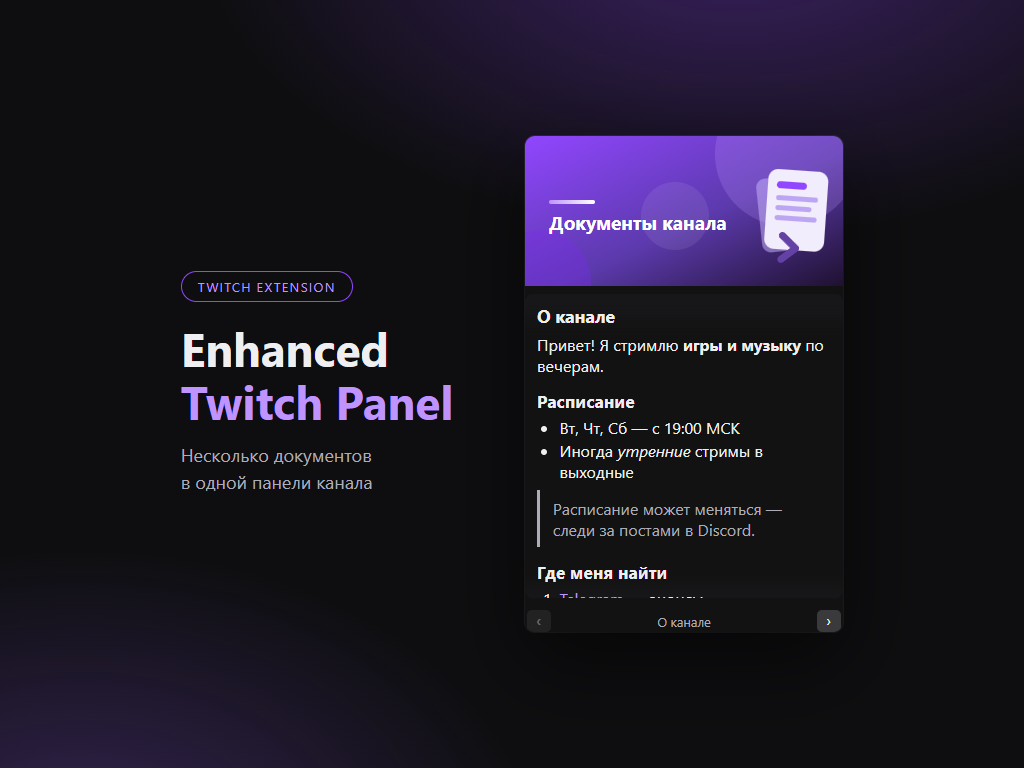
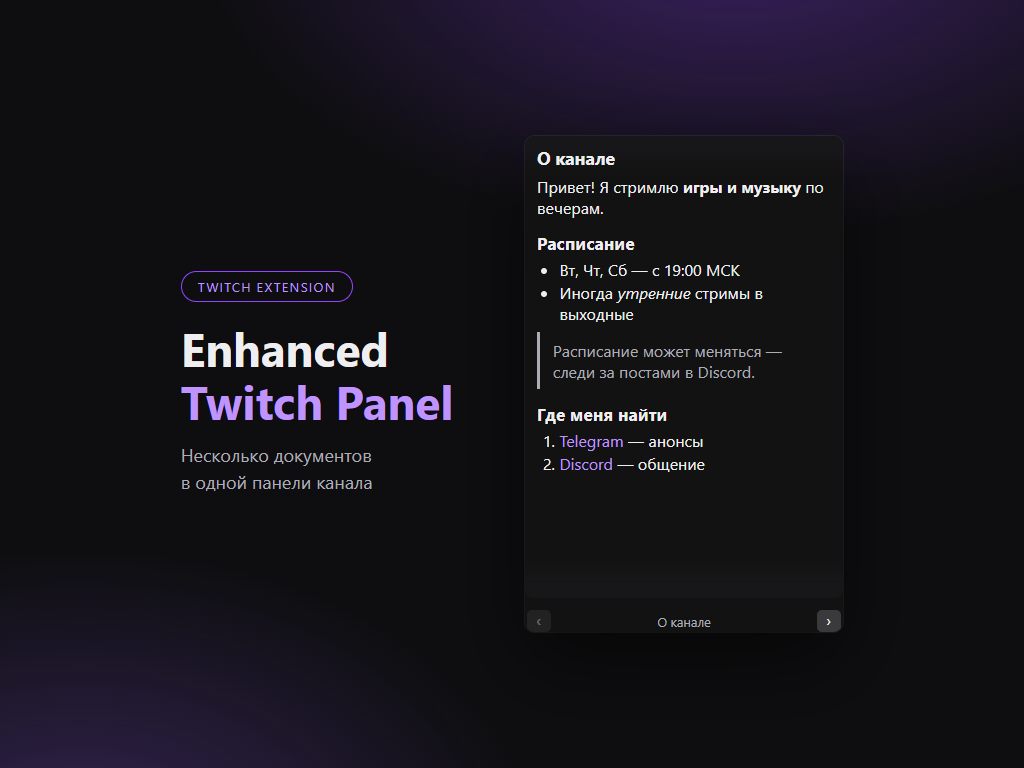
docs: update docs

Changed region(s): [[0.5, 0.1562, 0.8438, 0.625], [0.5312, 0.6562, 0.75, 0.7812]]

diff --git a/svelte.config.js b/svelte.config.js
@@ -1,0 +1,9 @@
+// Конфиг Svelte для тулчейна (Svelte LS в VSCode, svelte-check). Препроцессоров
+// нет — компилятору достаточно дефолтов. Сам файл нужен, чтобы Svelte LS не
+// пытался вытащить опции из vite.config.js: тот собирается без ожидаемого LS
+// сабплагина «vite-plugin-svelte:config» (появился в vite-plugin-svelte v6,
+// в проекте v5) — без этого файла LS сыплет «Error in vite.config: No Svelte
+// configuration found...» в Problems.
+export default {
+	compilerOptions: {},
+};
